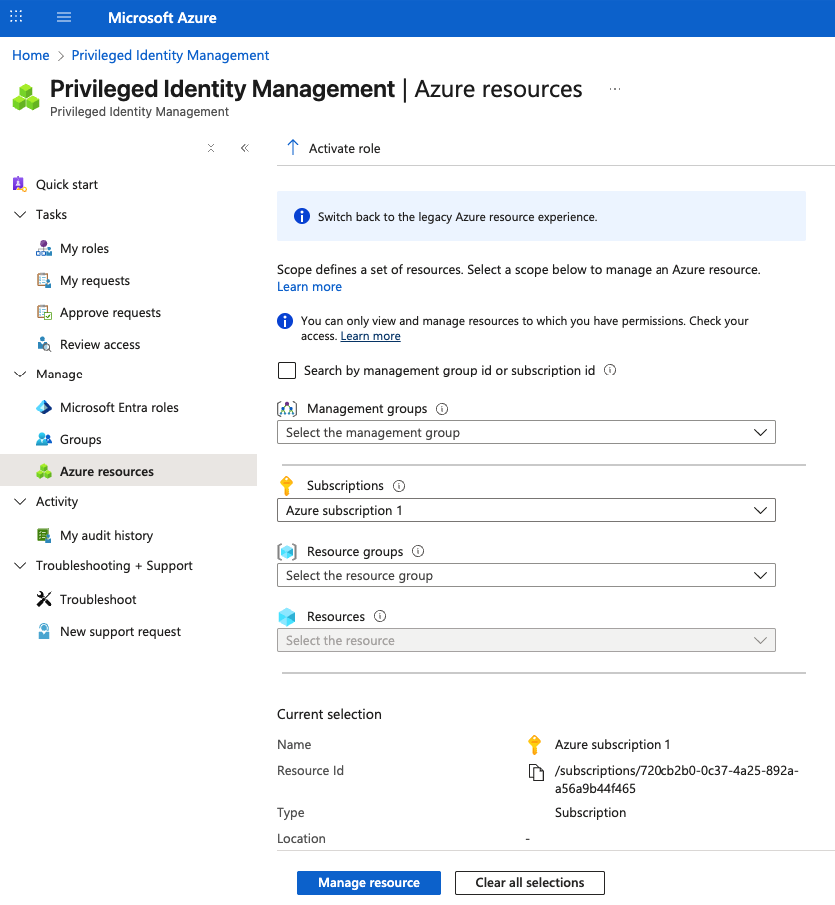
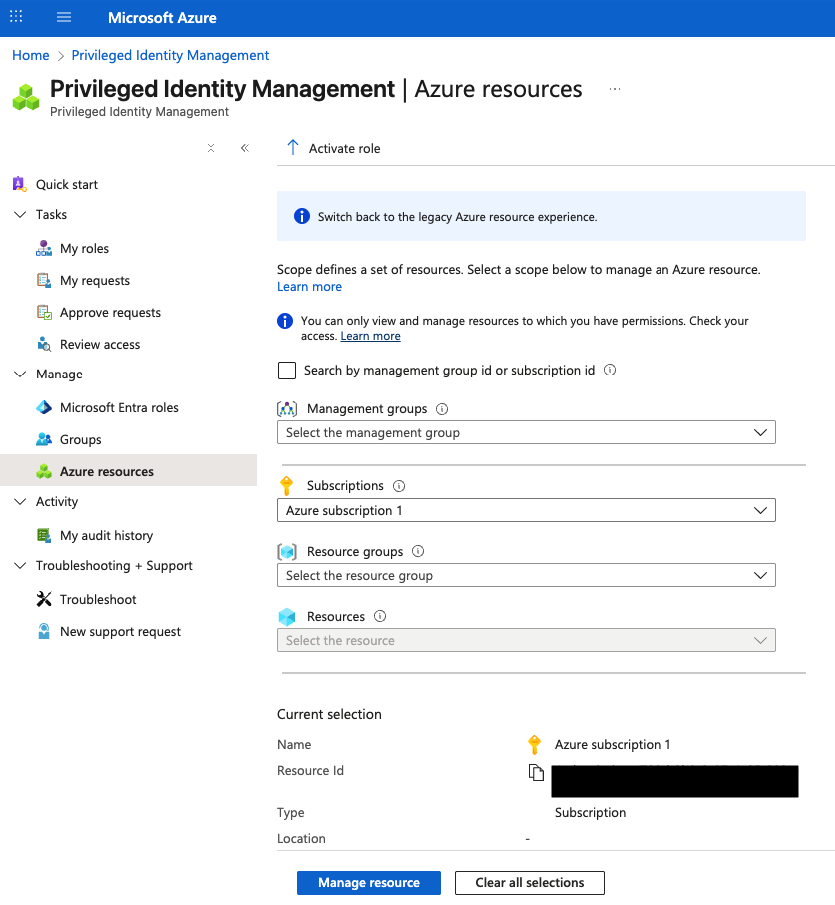
chore: uudet kirjoitukset10

Changed region(s): [[0.6539, 0.8354, 0.9653, 0.8972]]

diff --git a/_posts/2025-08-05-m365_id_gov_pim.md b/_posts/2025-08-05-m365_id_gov_pim.md
@@ -136,7 +136,7 @@ Tässä esimerkissä määritetään Entra Roles-rooliasetukset
 ![Kuva]({{ site.baseurl }}/pim8.png)
 10.	Jos teit muutoksia oletus asetuksiin niin klikkaa lopuksi Päivitä painiketta tallentaaksesi määritysasetukset.
 
-##Hyvä käytäntö
+### Hyvä käytäntö
 
 > Vältä pysyvien roolien käyttöä. Anna käyttäjille vain kelpoisuus rooliin ja vaadi hyväksyntä, MFA ja aktivointiperuste. Tämä vähentää riskejä huomattavasti.
 
